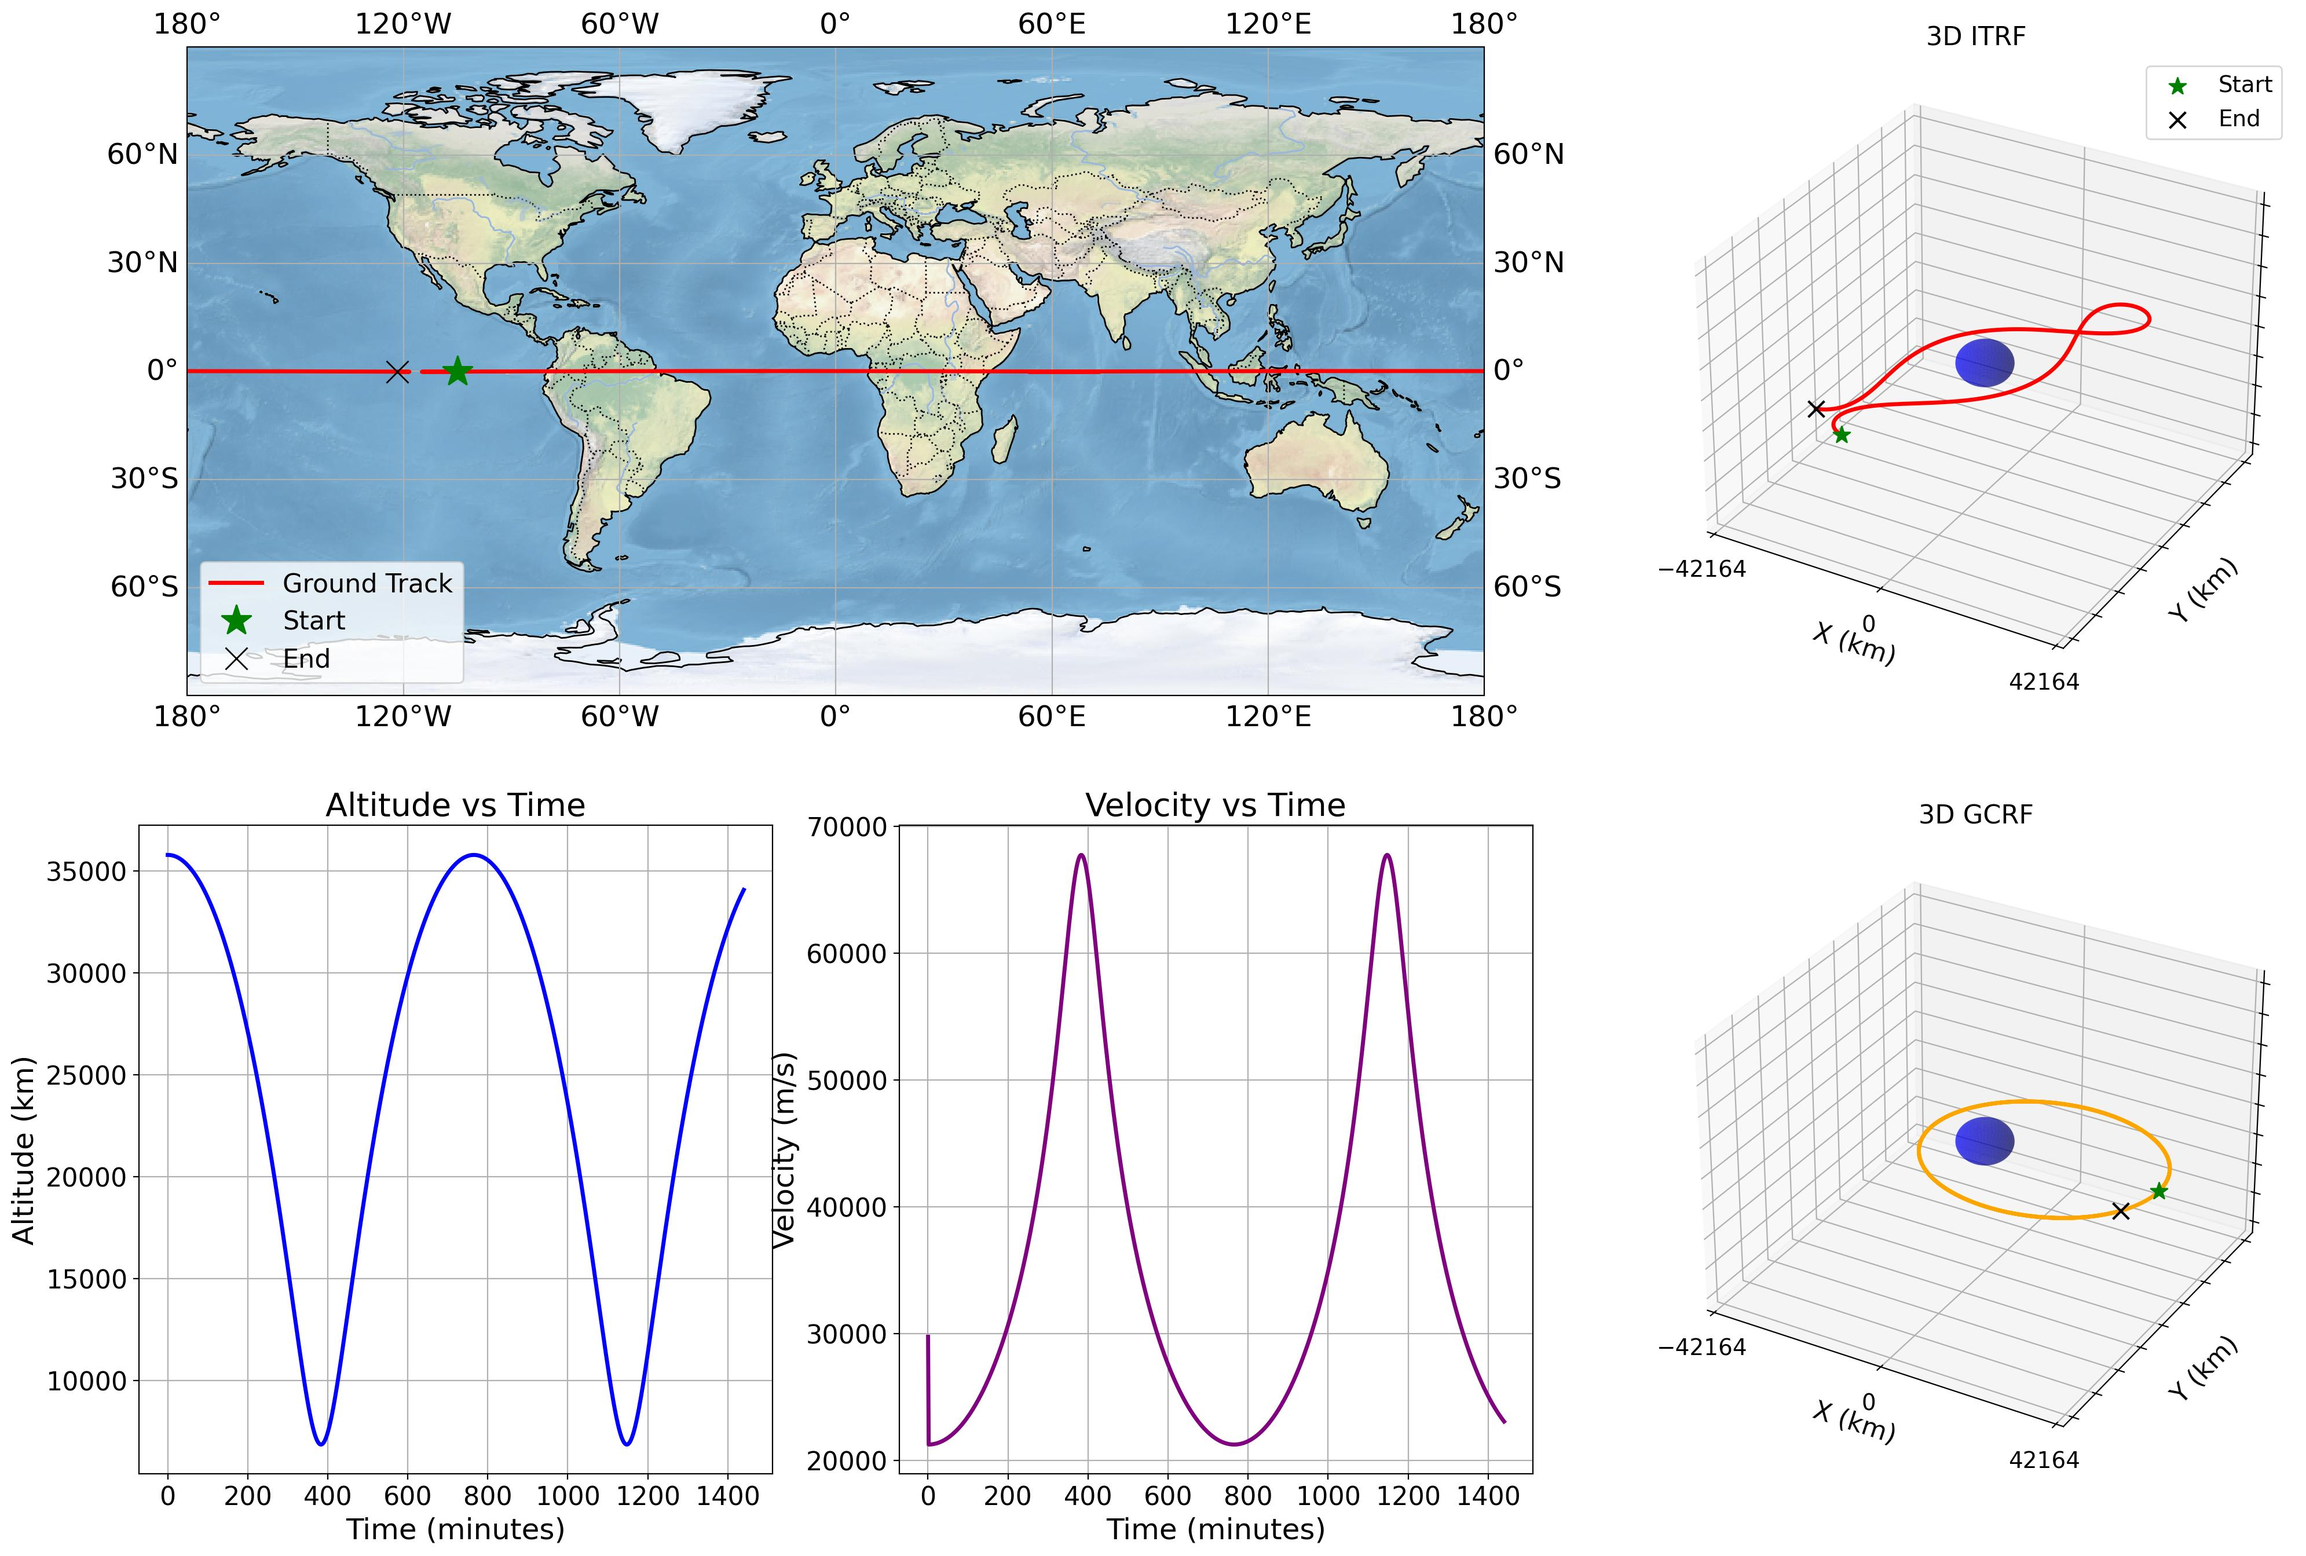
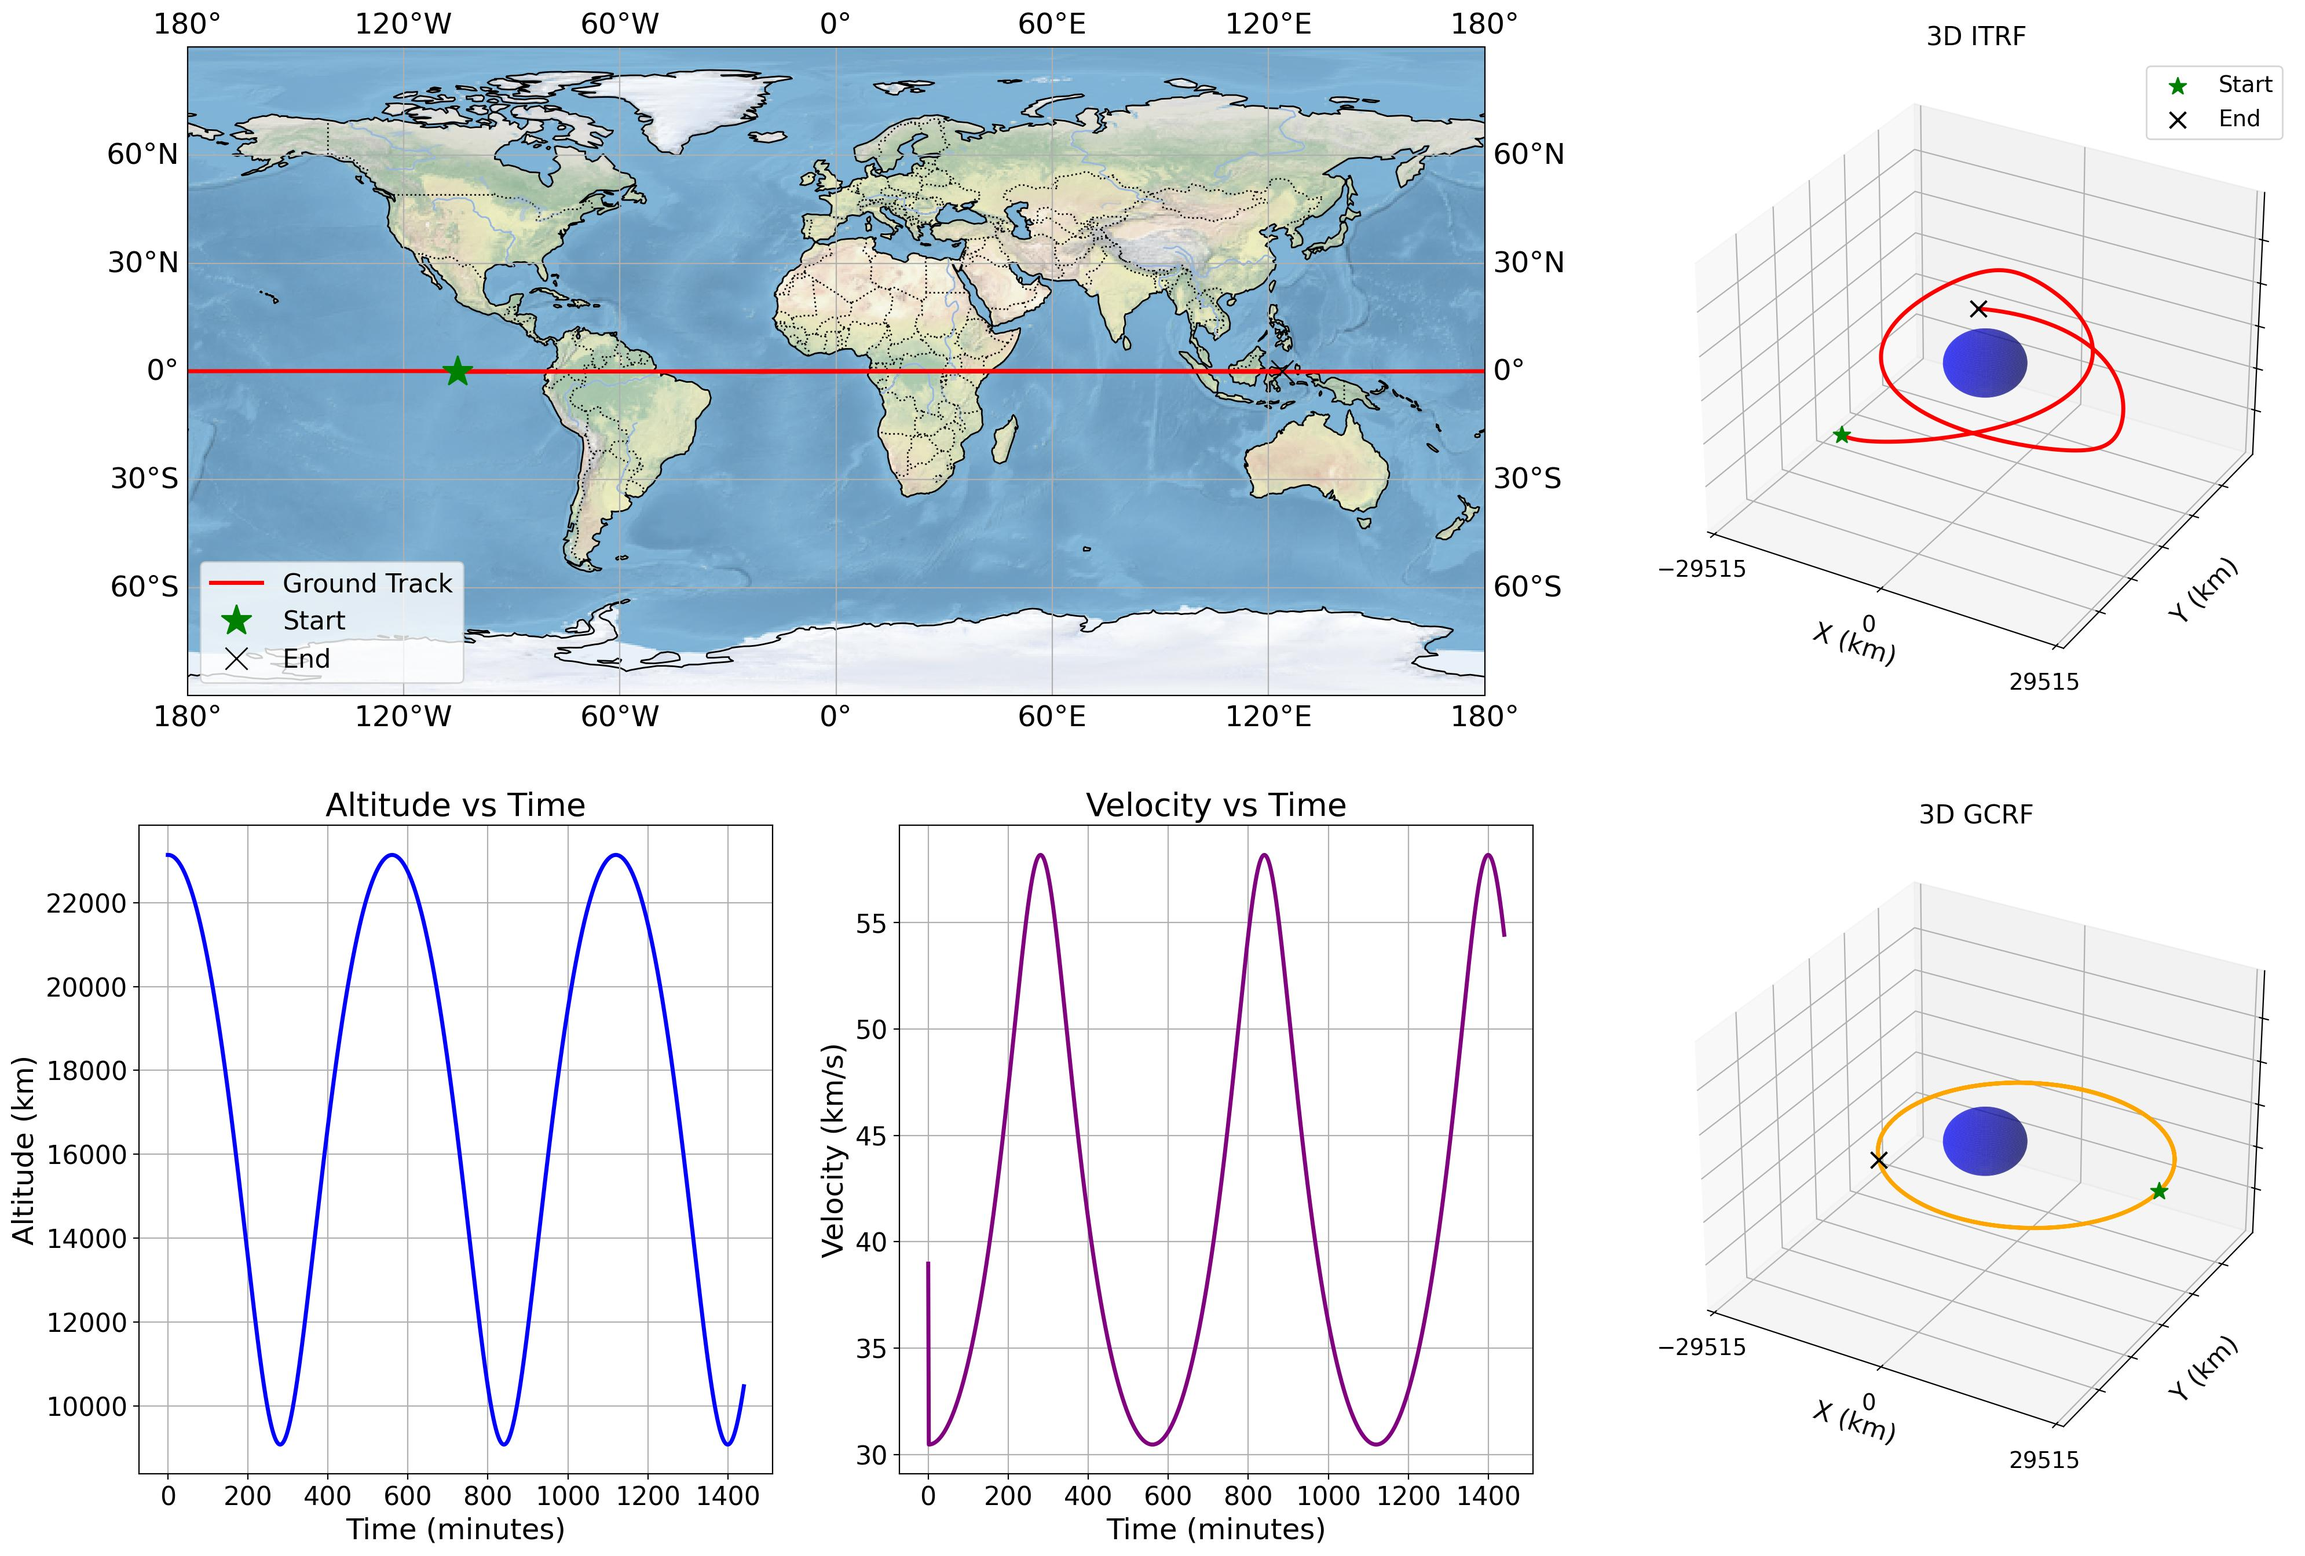
added a single 3d plot

diff --git a/yeager_utils/plots/cislunar_plot_3d.py b/yeager_utils/plots/cislunar_plot_3d.py
@@ -1,0 +1,208 @@
+from .plotutils import check_numpy_array, check_type
+
+import matplotlib.pyplot as plt
+import matplotlib.cm as cm
+from matplotlib.ticker import MaxNLocator
+from matplotlib.legend_handler import HandlerBase
+from matplotlib.collections import LineCollection
+from matplotlib.patches import Patch
+from matplotlib.lines import Line2D
+import matplotlib.font_manager as font_manager
+
+import numpy as np
+
+from ssapy import get_body
+from ..coordinates import gcrf_to_lunar_fixed
+from ..constants import RGEO, EARTH_RADIUS, MOON_RADIUS
+from ..compute import find_smallest_bounding_cube
+from .plotutils import save_plot
+
+
+class GradientLineHandler(HandlerBase):
+    def create_artists(self, legend, orig_handle, xdescent, ydescent, width, height, fontsize, trans):
+        # Number of segments for the gradient
+        num_segments = 10
+        # X-coordinates from the left (xdescent) to the right (xdescent + width)
+        x = np.linspace(xdescent, xdescent + width, num_segments + 1)
+        # Y-coordinate centered vertically in the legend box
+        y = ydescent + height / 2
+        # Create line segments: each segment is a tuple of ((x_start, y), (x_end, y))
+        segments = [((x[i], y), (x[i + 1], y)) for i in range(num_segments)]
+        # Assign rainbow colors to each segment
+        colors = cm.rainbow(np.linspace(0, 1, num_segments))
+        # Create a LineCollection with these segments and colors
+        lc = LineCollection(segments, colors=colors, linewidth=2)
+        lc.set_transform(trans)  # Apply the transformation for legend positioning
+        return [lc]
+
+
+def cislunar_plot_3d(r, t=None, figsize=(8, 8), fontsize=12, save_path=False, show=False, title=None, c='white'):
+    """
+    Author: Travis Yeager (yeager7@llnl.gov)
+    """
+    from ..orbital_mechanics import lagrange_points_lunar_fixed_frame
+
+    input_type = check_numpy_array(r)
+    t_type = check_type(t)
+
+    if input_type == "numpy array":
+        num_orbits = 1
+        r = [r]
+
+    if input_type == "list of numpy array":
+        num_orbits = len(r)
+
+    if 'w' in c:
+        textcolor = 'black'
+        plotcolor = 'white'
+    elif 'b' in c:
+        textcolor = 'white'
+        plotcolor = 'black'
+
+    fig = plt.figure(figsize=figsize, dpi=100, facecolor=plotcolor)
+    ax = fig.add_subplot(111, projection='3d')
+
+    bounds_lunar = {"lower": np.array([np.inf, np.inf, np.inf]), "upper": np.array([-np.inf, -np.inf, -np.inf])}
+
+    # Check if all arrays in `r` are the same shape
+
+    for orbit_index in range(num_orbits):
+        xyz = r[orbit_index]
+
+        if t_type is None:
+            raise ValueError("Need to provide t or list of t for each orbit in itrf, lunar or lunar fixed frames")
+        else:
+            if input_type == "numpy array":
+                t_current = t
+                # Single array case
+                if np.shape(t)[0] != np.shape(r)[1]:
+                    raise ValueError("For a single numpy array 'r', 't' must be a 1D array of the same length as the first dimension of 'r'.")
+
+            elif input_type == "list of numpy array":
+                same_shape = all(np.shape(arr) == np.shape(r[0]) for arr in r)
+                if same_shape:
+                    if t_type == "Single array or np.ndarray":
+                        t_current = t
+                    elif t_type == "List of non-arrays" or t_type == "List of arrays":
+                        t_current = max(t, key=len)
+                    # Single `t` array is allowed
+                    if len(t_current) != len(xyz):
+                        raise ValueError("When 'r' is a list of arrays with the same shape, 't' must be a single 1D array matching the length of the first dimension of the arrays in 'r'.")
+                else:
+                    # `t` must be a list of 1D arrays
+                    if t_type == "Single array or np.ndarray":
+                        raise ValueError("When 'r' is a list of differing size numpy arrays, 't' must be a list of 1D arrays of equal length to the corresponding arrays in 'r'.")
+                    elif t_type == "List of non-arrays" or t_type == "List of arrays":
+                        if len(xyz) == len(t[orbit_index]):
+                            t_current = t[orbit_index]
+                        else:
+                            print(f"length of t: {len(t_current)} and r: {len(xyz)}")
+                            raise ValueError(f"'t' must be a 1D array matching the length of the first dimension of 'r[{orbit_index}]'.")
+
+            r_moon = get_body("moon").position(t_current).T
+        r_earth = np.zeros(np.shape(r_moon))
+
+        if max(np.linalg.norm(xyz, axis=-1) >= .95 * RGEO):
+            unit_conversion = RGEO
+            unit_label = 'GEO'
+        else:
+            unit_conversion = 1e3
+            unit_label = 'km'
+
+        xyz_lunar = gcrf_to_lunar_fixed(xyz, t_current) / unit_conversion
+        r_earth_lunar = gcrf_to_lunar_fixed(r_earth, t_current) / unit_conversion
+        xyz = xyz / unit_conversion
+        r_moon = r_moon / unit_conversion
+        r_earth = r_earth / unit_conversion
+
+        lower_bound_lunar_temp, upper_bound_lunar_temp = find_smallest_bounding_cube(xyz_lunar, pad=1)
+        bounds_lunar["lower"] = np.minimum(bounds_lunar["lower"], lower_bound_lunar_temp)
+        bounds_lunar["upper"] = np.maximum(bounds_lunar["upper"], upper_bound_lunar_temp)
+
+        mask_lunar = (
+            (r_earth_lunar[:, 0] >= bounds_lunar["lower"][0]) & (r_earth_lunar[:, 0] <= bounds_lunar["upper"][0])
+            & (r_earth_lunar[:, 1] >= bounds_lunar["lower"][1]) & (r_earth_lunar[:, 1] <= bounds_lunar["upper"][1])
+            & (r_earth_lunar[:, 2] >= bounds_lunar["lower"][2]) & (r_earth_lunar[:, 2] <= bounds_lunar["upper"][2])
+        )
+
+        if np.size(r_moon[:, 0]) > 1:
+            blue_colors = cm.Blues(np.linspace(0.2, .8, len(r_moon[:, 0])))[::-1][mask_lunar]
+        else:
+            blue_colors = "blue"
+
+        if input_type == "numpy array":
+            scatter_dot_colors = cm.rainbow(np.linspace(0, 1, len(xyz[:, 0])))
+        else:
+            scatter_dot_colors = cm.rainbow(np.linspace(0, 1, num_orbits))[orbit_index]
+
+        # Create a 3d sphere of the Earth and Moon
+        u = np.linspace(0, 2 * np.pi, 180)
+        v = np.linspace(-np.pi / 2, np.pi / 2, 180)
+
+        ax.scatter3D(xyz_lunar[:, 0], xyz_lunar[:, 1], xyz_lunar[:, 2], color=scatter_dot_colors, s=1)
+        mesh_x = np.outer(np.cos(u), np.cos(v)).T * (MOON_RADIUS / unit_conversion) + 0
+        mesh_y = np.outer(np.sin(u), np.cos(v)).T * (MOON_RADIUS / unit_conversion) + 0
+        mesh_z = np.outer(np.ones(np.size(u)), np.sin(v)).T * (MOON_RADIUS / unit_conversion) + 0
+        ax.plot_surface(mesh_x, mesh_y, mesh_z, color="grey", alpha=0.6, edgecolor='none')
+
+        ax.scatter3D(r_earth_lunar[mask_lunar, 0], r_earth_lunar[mask_lunar, 1], r_earth_lunar[mask_lunar, 2], color=blue_colors, s=55)
+        ax.set_xlabel(f'x [{unit_label}]', color=textcolor, fontsize=fontsize)
+        ax.set_ylabel(f'y [{unit_label}]', color=textcolor, fontsize=fontsize)
+        ax.set_zlabel(f'z [{unit_label}]', color=textcolor, fontsize=fontsize)
+        for (point, pos) in lagrange_points_lunar_fixed_frame().items():
+            pos = pos / unit_conversion
+            if bounds_lunar["lower"][0] <= pos[0] <= bounds_lunar["upper"][0] and bounds_lunar["lower"][1] <= pos[1] <= bounds_lunar["upper"][1] and bounds_lunar["lower"][2] <= pos[2] <= bounds_lunar["upper"][2]:
+                ax.scatter(pos[0], pos[1], pos[2], color=textcolor, label=point, s=10)
+                ax.text(pos[0], pos[1], pos[2], point, color=textcolor)
+
+
+    ax.set_xlim(bounds_lunar["lower"][0], bounds_lunar["upper"][0])
+    ax.set_ylim(bounds_lunar["lower"][1], bounds_lunar["upper"][1])
+    ax.set_zlim(bounds_lunar["lower"][2], bounds_lunar["upper"][2])
+    ax.set_box_aspect([1, 1, 1])
+
+    ax.set_title(f"Frame: Lunar Fixed\n{title}", color=textcolor, fontsize=fontsize + 2)
+
+    rainbow_line = Line2D([0], [0], color='w', linestyle='-', linewidth=2, label='Orbit Path')
+
+    legend_elements = [
+        Patch(facecolor='lightblue', edgecolor=textcolor, label='Earth'),
+        Patch(facecolor='lightgrey', edgecolor=textcolor, label='Moon'),
+        Line2D([0], [0], marker='o', color='none', markerfacecolor='black', markersize=6, label='Lagrange Points'),
+    ]
+
+    if num_orbits == 1:
+        legend_elements.append(rainbow_line)
+
+    font_properties = font_manager.FontProperties()
+
+    ax.legend(
+        handles=legend_elements,
+        handler_map={rainbow_line: GradientLineHandler()} if num_orbits == 1 else {},
+        loc='upper left',
+        fontsize=12,
+        facecolor=plotcolor,
+        edgecolor=textcolor,
+        prop=font_properties,
+        labelcolor=textcolor
+    )
+
+    ax.set_facecolor(plotcolor)
+    ax.tick_params(axis='both', colors=textcolor, labelsize=fontsize)
+    for label in ax.get_xticklabels() + ax.get_yticklabels():
+        label.set_color(textcolor)
+        label.set_fontsize(fontsize)
+    for spine in ax.spines.values():
+        spine.set_edgecolor(textcolor)
+    ax.xaxis.set_major_locator(MaxNLocator(integer=True))
+    ax.yaxis.set_major_locator(MaxNLocator(integer=True))
+    ax.zaxis.set_major_locator(MaxNLocator(integer=True))
+
+    ax.set_zorder(1)
+
+    if save_path:
+        save_plot(fig, save_path)
+    if show:
+        plt.show()
+    plt.close()
+    return fig, ax

diff --git a/demos/maneuver_accel_leapfrog.py b/demos/maneuver_accel_leapfrog.py
@@ -1,15 +1,16 @@
 import numpy as np
 import astropy.units as u
-from yeager_utils import leapfrog, groundtrack_dashboard, surface_rv, launch_pads, RGEO, VGEO, EARTH_MU
+from yeager_utils import leapfrog, groundtrack_dashboard, surface_rv, launch_pads, RGEO, VGEO, EARTH_MU, hkoe, kepler_to_state
 
-r0 = [42164e3, 0, 0]  # GEO radius in meters
-v0 = [0, np.sqrt(EARTH_MU / 42164e3), 0]  # Circular velocity
-
-t = np.arange(0, 3600 * 24 * 10, 10)  # 6 hours, 10s steps
+# r0 = [42164e3, 0, 0]  # GEO radius in meters
+# v0 = [0, np.sqrt(EARTH_MU / 42164e3), 0]  # Circular velocity
+r0, v0 = kepler_to_state(hkoe([RGEO, 0.3, 40, 0, 0, 0]))
+print(r0, v0)
+t = np.arange(0, 3600 * 24 * 1, 10)  # 6 hours, 10s steps
 r, v = leapfrog(
     r0,
     v0,
     t,
-    velocity=[10, 0, 100]
+    velocity=[-10, 0, 100]
 )
 groundtrack_dashboard(r[:, 0], r[:, 1], r[:, 2], t, save_path="images/testing_leapfrog_maneuvers.jpg")

diff --git a/yeager_utils/plots/groundtrack_dashboard.py b/yeager_utils/plots/groundtrack_dashboard.py
@@ -105,7 +105,7 @@ def groundtrack_dashboard(x, y, z, times, save_path=None, pad=500):
     ax3.set_zlabel('Z (km)', fontsize=16)
     ax3.tick_params(axis='both', labelsize=14)
     ax3.legend(fontsize=14)
-    ax3.set_title('3D ITRF', fontsize=16)
+    ax3.set_title('ITRF', fontsize=16)
 
     lower_bound, upper_bound = find_smallest_bounding_cube(xyz, pad=pad)
     max_bound = np.max(np.abs([lower_bound, upper_bound])) / 1e3
@@ -137,7 +137,7 @@ def groundtrack_dashboard(x, y, z, times, save_path=None, pad=500):
     ax5.set_ylabel('Y (km)', fontsize=16)
     ax5.set_zlabel('Z (km)', fontsize=16)
     ax5.tick_params(axis='both', labelsize=14)
-    ax5.set_title('3D GCRF', fontsize=16)
+    ax5.set_title('GCRF', fontsize=16)
     ax5.set_xlim([-limit, limit])
     ax5.set_ylim([-limit, limit])
     ax5.set_zlim([-limit, limit])

diff --git a/demos/demo_orbit_plot.py b/demos/demo_orbit_plot.py
@@ -1,4 +1,4 @@
-from yeager_utils import ssapy_orbit, orbit_plot, cislunar_plot, globe_plot, RGEO, get_lunar_rv, Time
+from yeager_utils import ssapy_orbit, orbit_plot, cislunar_plot_3d, cislunar_plot, globe_plot, RGEO, get_lunar_rv, Time
 import os
 import numpy as np
 
@@ -39,6 +39,7 @@ r, v, t = ssapy_orbit(r=r0, v=v0, duration=(1, 'month'))
 print(f"Plotting orbit. {np.shape(r)} {np.shape(t)}")
 orbit_plot(r=r, t=t, save_path=imname("orbit_plot"))
 cislunar_plot(r=r, t=t, save_path=imname("cislunar_plot"))
+cislunar_plot_3d(r=r, t=t, save_path=imname("cislunar_plot_3d"))
 globe_plot(r=r, t=t, save_path=imname("globe_plot_black"), scale=5)
 globe_plot(r=r, t=t, save_path=imname("globe_plot_white"), scale=5, c='white')
 
